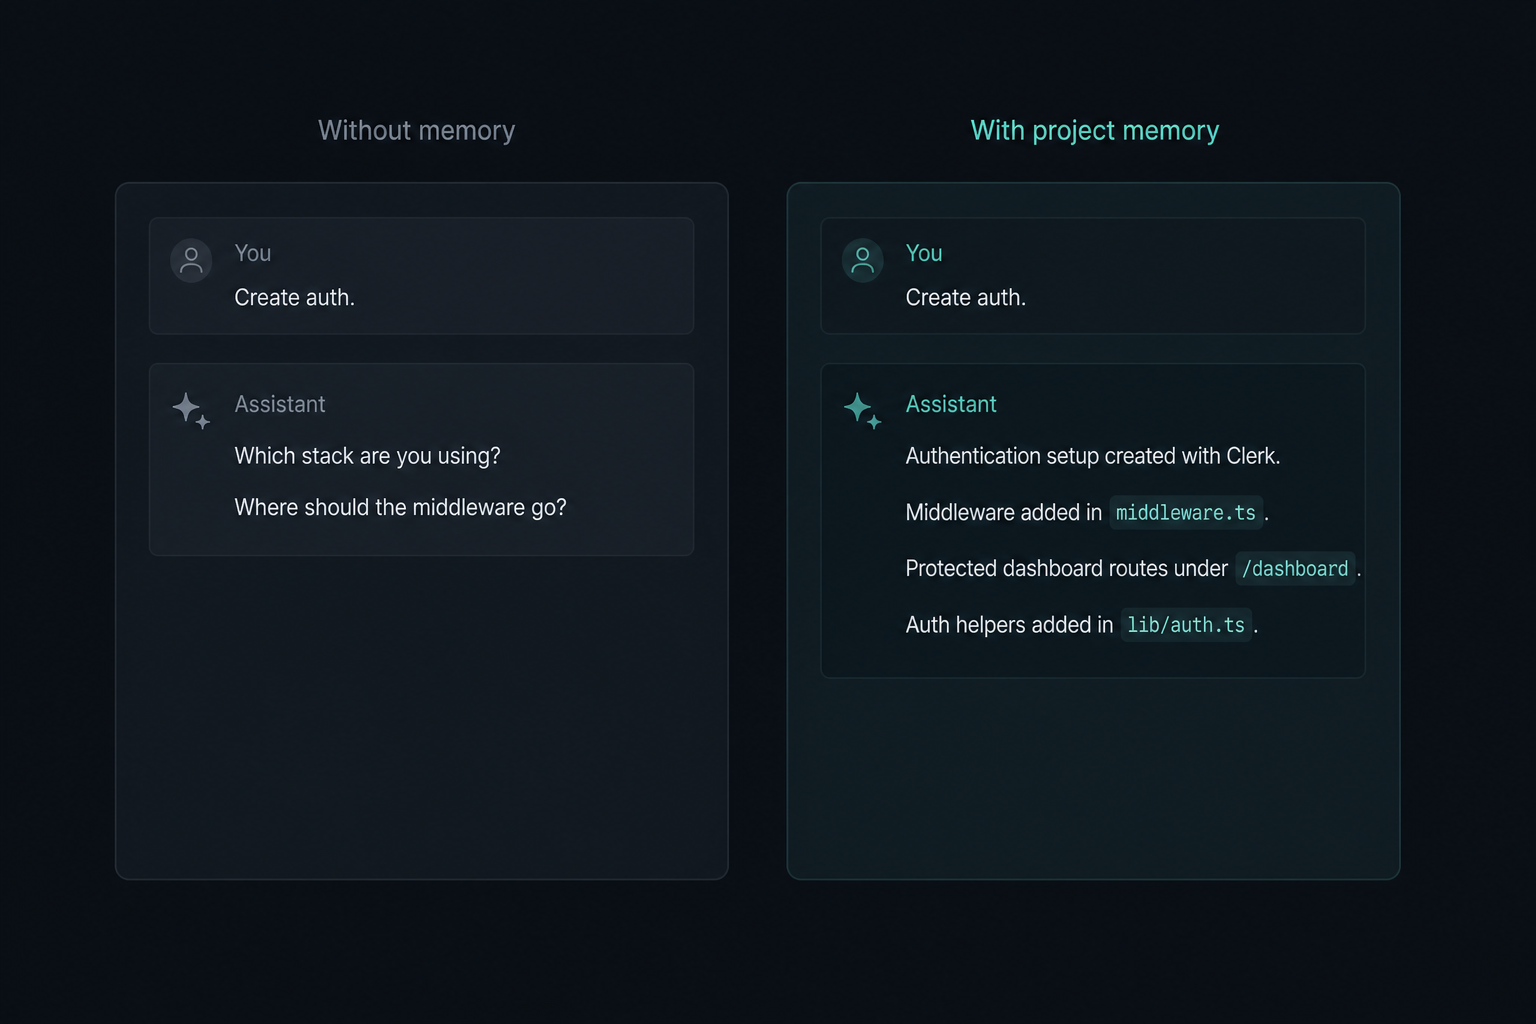
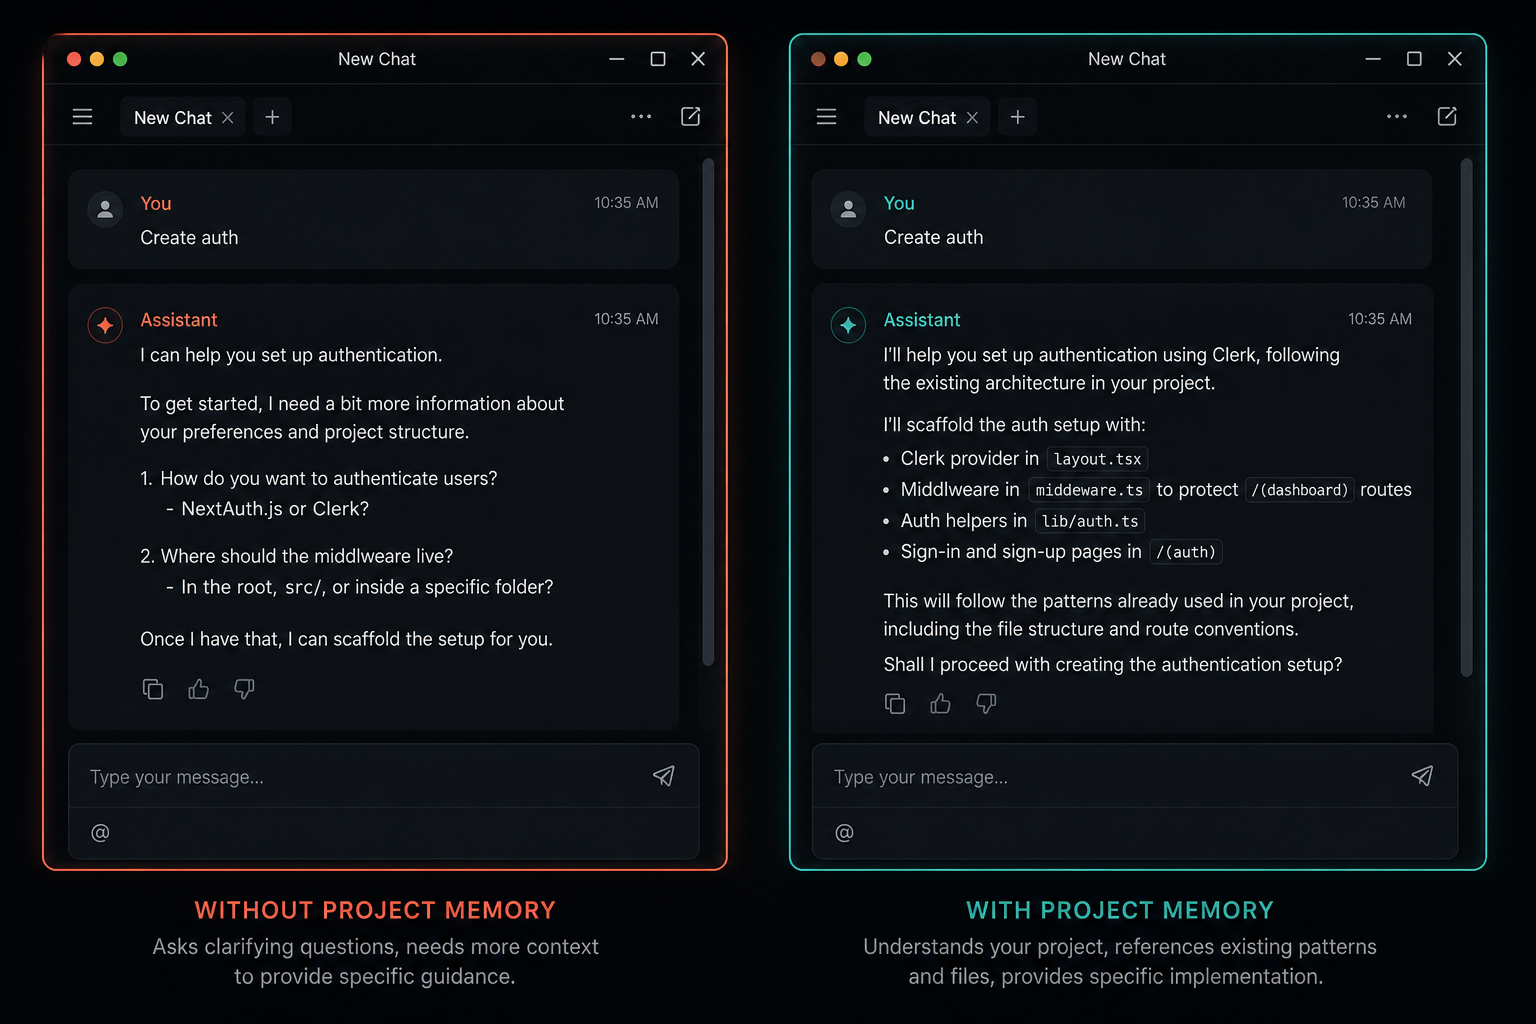
update

diff --git a/apps/cli/README.md b/apps/cli/README.md
@@ -7,7 +7,7 @@
 <p align="center"><b>Give Cursor long-term memory.</b></p>
 
 <p align="center">
-  Adapt the agent to your project. Explain decisions once — every next chat already knows.
+  Adapt the agent to your project. Explain once — every next chat already knows.
 </p>
 
 <p align="center">
@@ -27,37 +27,28 @@ npm install -g neuronai
   <img src="https://raw.githubusercontent.com/tokpl/neuronai/main/docs/assets/hero.png" alt="NeuronAI — Give Cursor long-term memory" width="100%" />
 </p>
 <p align="center">
-  <img src="https://raw.githubusercontent.com/tokpl/neuronai/main/docs/assets/problem.png" alt="The problem vs the fix: stop re-explaining your project" width="100%" />
+  <img src="https://raw.githubusercontent.com/tokpl/neuronai/main/docs/assets/problem.png" alt="The problem vs the fix" width="100%" />
 </p>
 <p align="center">
   <img src="https://raw.githubusercontent.com/tokpl/neuronai/main/docs/assets/solution.png" alt="Write once. Remembered forever." width="100%" />
 </p>
 <p align="center">
-  <img src="https://raw.githubusercontent.com/tokpl/neuronai/main/docs/assets/before-after.png" alt="Without memory vs with project memory" width="100%" />
+  <img src="https://raw.githubusercontent.com/tokpl/neuronai/main/docs/assets/before-after.png" alt="Without project memory vs with project memory" width="100%" />
 </p>
 <p align="center">
-  <img src="https://raw.githubusercontent.com/tokpl/neuronai/main/docs/assets/demo.png" alt="Demo flow" width="100%" />
+  <img src="https://raw.githubusercontent.com/tokpl/neuronai/main/docs/assets/demo.png" alt="Terminal init to Cursor answer" width="100%" />
 </p>
 <p align="center">
-  <img src="https://raw.githubusercontent.com/tokpl/neuronai/main/docs/assets/cards.png" alt="Why it helps: less repeating, agent fits your project" width="100%" />
+  <img src="https://raw.githubusercontent.com/tokpl/neuronai/main/docs/assets/cards.png" alt="Why it helps" width="100%" />
 </p>
 <p align="center">
-  <img src="https://raw.githubusercontent.com/tokpl/neuronai/main/docs/assets/workflow.png" alt="Scan → memory → Cursor" width="100%" />
+  <img src="https://raw.githubusercontent.com/tokpl/neuronai/main/docs/assets/folder-structure.png" alt=".neuron folder structure" width="100%" />
 </p>
 <p align="center">
-  <img src="https://raw.githubusercontent.com/tokpl/neuronai/main/docs/assets/folder-structure.png" alt=".neuron folder" width="100%" />
+  <img src="https://raw.githubusercontent.com/tokpl/neuronai/main/docs/assets/architecture.png" alt="Repo to memory to Cursor" width="100%" />
 </p>
 <p align="center">
-  <img src="https://raw.githubusercontent.com/tokpl/neuronai/main/docs/assets/cursor-chat.png" alt="Real Cursor example" width="100%" />
-</p>
-<p align="center">
-  <img src="https://raw.githubusercontent.com/tokpl/neuronai/main/docs/assets/quickstart.png" alt="Quick Start" width="100%" />
-</p>
-<p align="center">
-  <img src="https://raw.githubusercontent.com/tokpl/neuronai/main/docs/assets/terminal.png" alt="Install in the terminal" width="100%" />
-</p>
-<p align="center">
-  <img src="https://raw.githubusercontent.com/tokpl/neuronai/main/docs/assets/architecture.png" alt="Architecture" width="100%" />
+  <img src="https://raw.githubusercontent.com/tokpl/neuronai/main/docs/assets/quickstart.png" alt="Quick Start with terminal" width="100%" />
 </p>
 <p align="center">
   <img src="https://raw.githubusercontent.com/tokpl/neuronai/main/docs/assets/roadmap.png" alt="Roadmap" width="100%" />

diff --git a/README.md b/README.md
@@ -7,7 +7,7 @@
 <p align="center"><b>Give Cursor long-term memory.</b></p>
 
 <p align="center">
-  Adapt the agent to your project. Explain decisions once — every next chat already knows.
+  Adapt the agent to your project. Explain once — every next chat already knows.
 </p>
 
 <p align="center">
@@ -27,37 +27,28 @@ npm install -g neuronai
   <img src="./docs/assets/hero.png" alt="NeuronAI — Give Cursor long-term memory" width="100%" />
 </p>
 <p align="center">
-  <img src="./docs/assets/problem.png" alt="The problem vs the fix: stop re-explaining your project" width="100%" />
+  <img src="./docs/assets/problem.png" alt="The problem vs the fix" width="100%" />
 </p>
 <p align="center">
   <img src="./docs/assets/solution.png" alt="Write once. Remembered forever." width="100%" />
 </p>
 <p align="center">
-  <img src="./docs/assets/before-after.png" alt="Without memory vs with project memory" width="100%" />
+  <img src="./docs/assets/before-after.png" alt="Without project memory vs with project memory" width="100%" />
 </p>
 <p align="center">
-  <img src="./docs/assets/demo.png" alt="Demo flow" width="100%" />
+  <img src="./docs/assets/demo.png" alt="Terminal init to Cursor answer" width="100%" />
 </p>
 <p align="center">
-  <img src="./docs/assets/cards.png" alt="Why it helps: less repeating, agent fits your project" width="100%" />
+  <img src="./docs/assets/cards.png" alt="Why it helps" width="100%" />
 </p>
 <p align="center">
-  <img src="./docs/assets/workflow.png" alt="Scan → memory → Cursor" width="100%" />
+  <img src="./docs/assets/folder-structure.png" alt=".neuron folder structure" width="100%" />
 </p>
 <p align="center">
-  <img src="./docs/assets/folder-structure.png" alt=".neuron folder" width="100%" />
+  <img src="./docs/assets/architecture.png" alt="Repo to memory to Cursor" width="100%" />
 </p>
 <p align="center">
-  <img src="./docs/assets/cursor-chat.png" alt="Real Cursor example" width="100%" />
-</p>
-<p align="center">
-  <img src="./docs/assets/quickstart.png" alt="Quick Start" width="100%" />
-</p>
-<p align="center">
-  <img src="./docs/assets/terminal.png" alt="Install in the terminal" width="100%" />
-</p>
-<p align="center">
-  <img src="./docs/assets/architecture.png" alt="Architecture" width="100%" />
+  <img src="./docs/assets/quickstart.png" alt="Quick Start with terminal" width="100%" />
 </p>
 <p align="center">
   <img src="./docs/assets/roadmap.png" alt="Roadmap" width="100%" />

diff --git a/docs/assets/README-ASSETS.md b/docs/assets/README-ASSETS.md
@@ -1,29 +1,29 @@
 # README landing assets
 
-Generated **PNG** set — dark, minimal, continuous scroll (GitHub `#0d1117` + teal).
+Rich dark continuous PNG set for the product README (not SVG, not ultra-minimal).
 
-## Style rules
+## Style
 
-- Same canvas / spacing / typography across panels
-- Brand name **NeuronAI** only on hero (optional once)
-- Prefer benefit copy: write once, project-adapted agent, no re-explaining
-- Avoid busy diagrams and repeated logos
+- Canvas: GitHub dark `#0d1117`
+- Accent: teal / cyan glass panels + soft neural atmosphere
+- Brand word **NeuronAI** only on `hero.png` (+ markdown logo)
+- One typography / spacing language across the scroll
+- Benefit copy: adapt agent to the project, explain once, remembered
 
-## Files
+## Scroll order (README)
 
-| File | Intent |
-|------|--------|
-| `hero.png` | Slogan + CTA |
+| File | Content |
+|------|---------|
+| `logo.png` | Mark (markdown) |
+| `hero.png` | Slogan, CTA, Cursor mock |
 | `problem.png` | Problem left / fix right |
-| `solution.png` | Write once → remembered |
-| `before-after.png` | Chat without vs with memory |
-| `demo.png` | init → scan → ask → answer |
-| `cards.png` | Four benefit cards |
-| `workflow.png` | 3-step only |
-| `folder-structure.png` | `.neuron/` |
-| `cursor-chat.png` | Real example |
-| `quickstart.png` | Install / init / enable |
-| `terminal.png` | Commands |
-| `architecture.png` | Decisions → every chat |
+| `solution.png` | Write once + benefits |
+| `before-after.png` | Full IDE chat comparison |
+| `demo.png` | Terminal → scan → Cursor → answer |
+| `cards.png` | Six why-it-helps cards |
+| `folder-structure.png` | Rich `.neuron/` tree |
+| `architecture.png` | Repo → memory → Cursor (3 panels) |
+| `quickstart.png` | Steps + integrated terminal |
 | `roadmap.png` | Now / Next / Soon / Later |
-| `logo.png` | Mark |
+
+Removed from the landing queue (do not use): separate `workflow`, `cursor-chat`, `terminal` panels.
